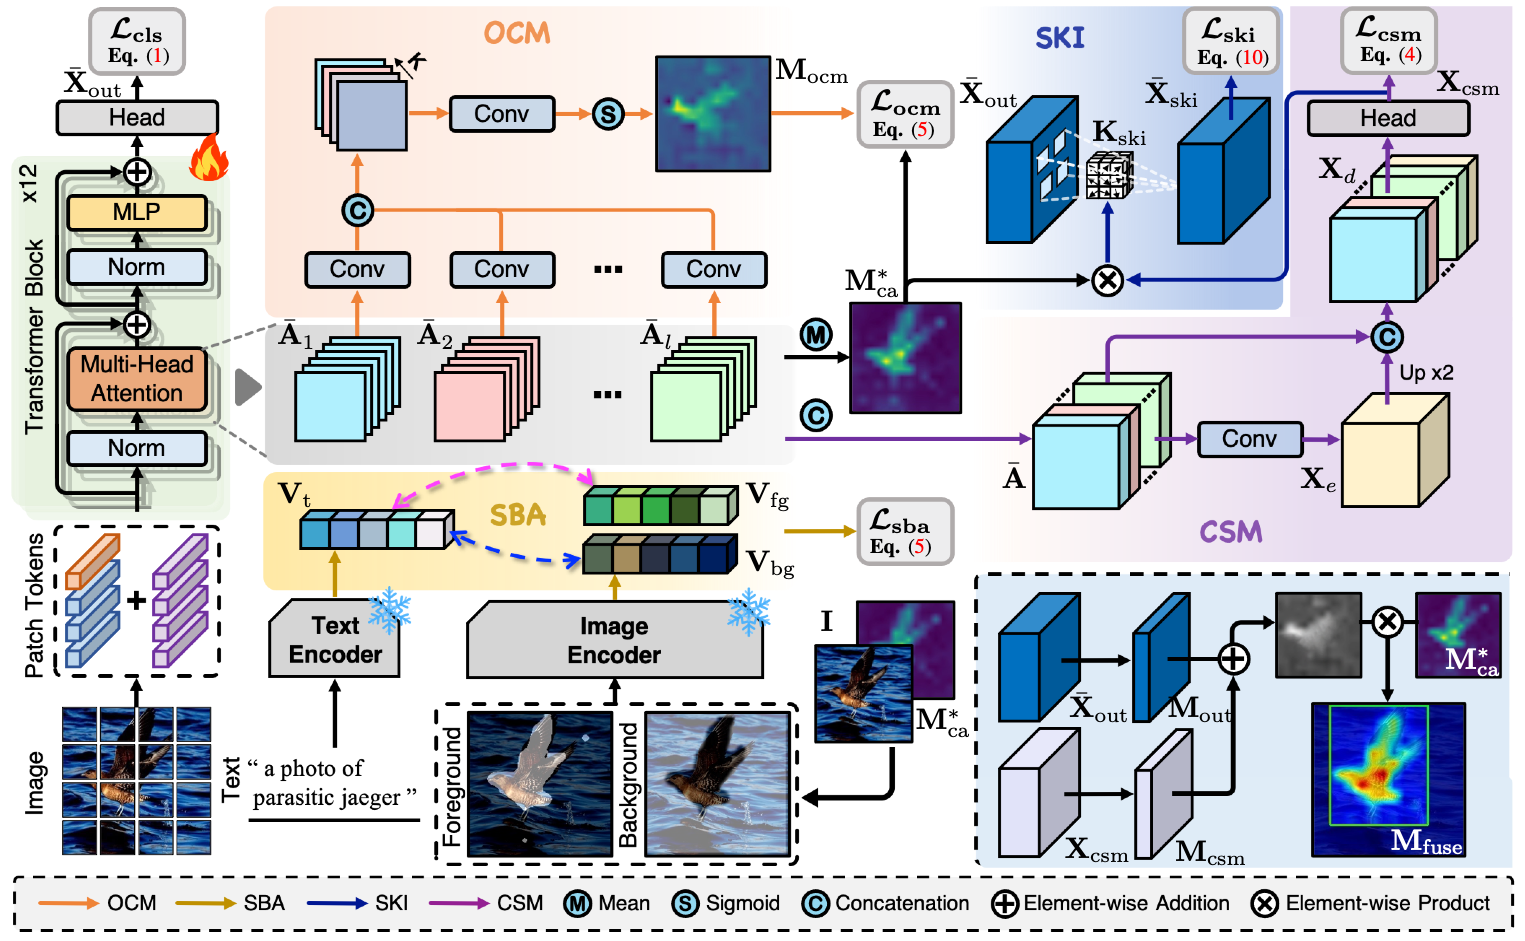
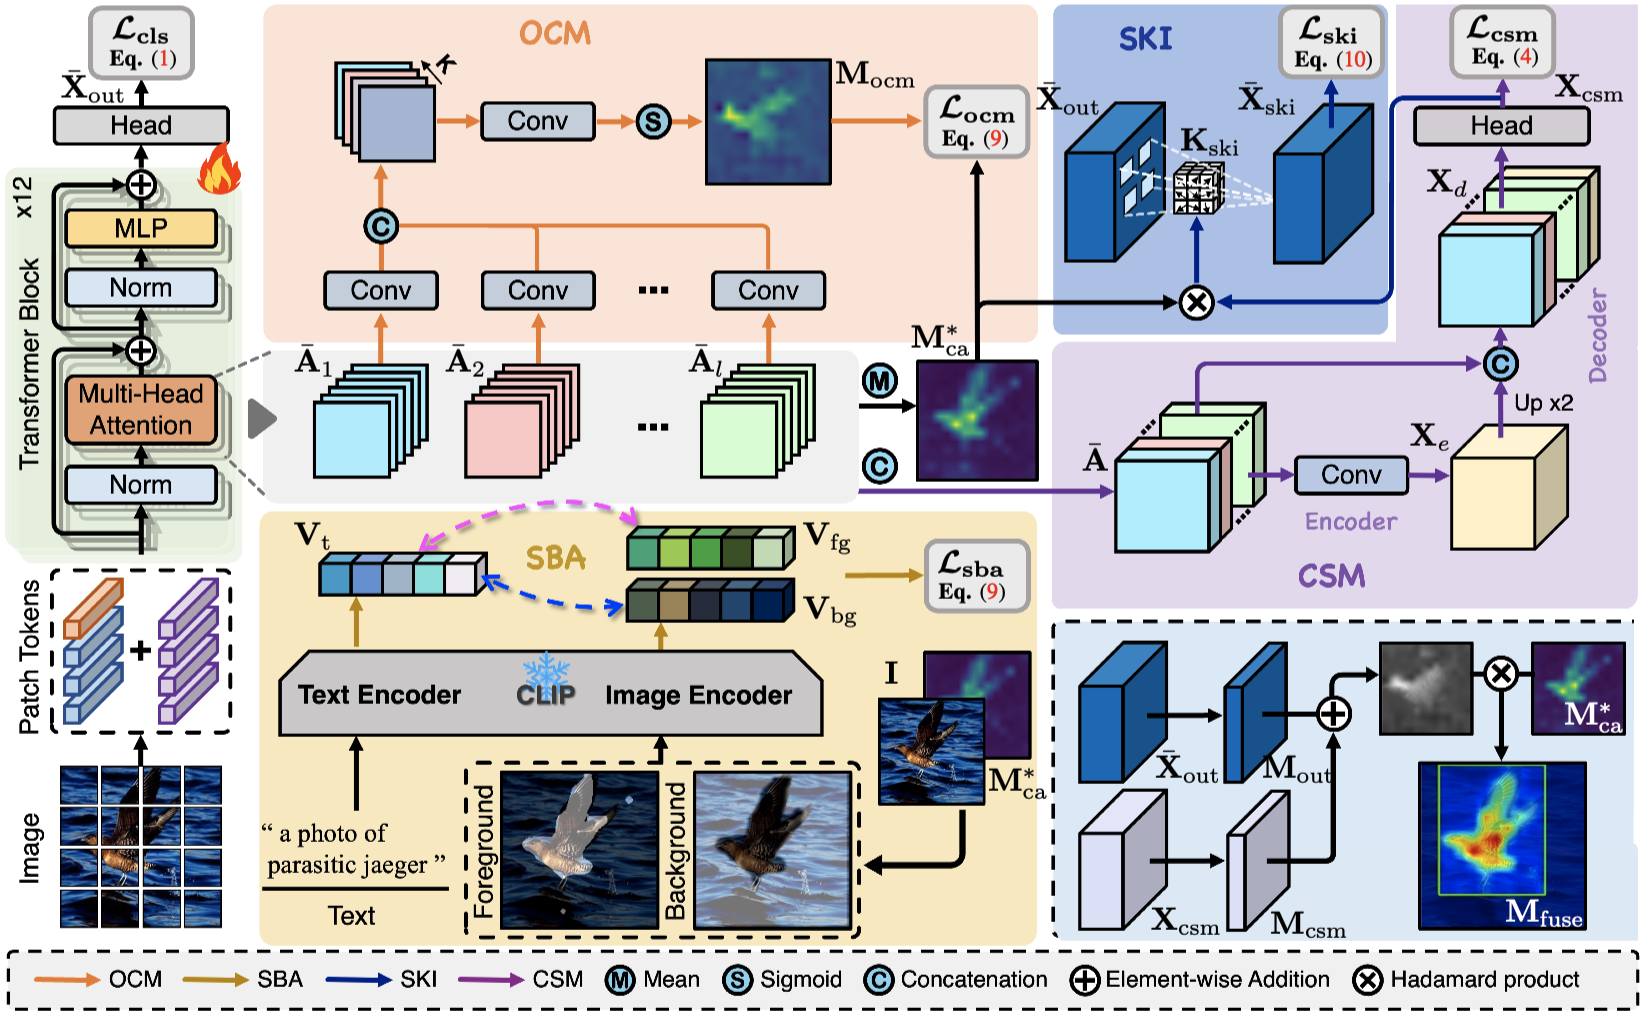
Update CDTR

diff --git a/models.py b/models.py
@@ -17,17 +17,15 @@ import sba_util
 import att_CNN
 
 __all__ = [
-    "deit_small_patch16_224_SDTR_cub",
-    "deit_small_patch16_224_SDTR_imnet",
+    "deit_small_patch16_224_CDTR_cub",
+    "deit_small_patch16_224_CDTR_imnet",
 ]
 
 
-class SDTR_cub(VisionTransformer):
+class CDTR_cub(VisionTransformer):
     def __init__(self, *args, **kwargs):
         super().__init__(*args, **kwargs)
-        self.head = nn.Conv2d(
-            self.embed_dim, self.num_classes, kernel_size=3, stride=1, padding=1
-        )
+        self.head = nn.Conv2d(self.embed_dim, self.num_classes, kernel_size=3, stride=1, padding=1)
 
         self.avgpool = nn.AdaptiveAvgPool2d(1)
         self.att_layer = att_CNN.cnn(
@@ -35,9 +33,7 @@ class SDTR_cub(VisionTransformer):
             self.num_classes,
             c_base=8,
         )
-        self.att_cls = nn.Conv2d(
-            self.num_classes, self.num_classes, kernel_size=1, padding=0, bias=False
-        )
+        self.att_cls = nn.Conv2d(self.num_classes, self.num_classes, kernel_size=1, padding=0, bias=False)
 
         self.dnc_att_layer = sba_util.sba_module(
             in_channels=self.num_classes,
@@ -107,9 +103,7 @@ class SDTR_cub(VisionTransformer):
         B = x.shape[0]
         x = self.patch_embed(x)
 
-        cls_tokens = self.cls_token.expand(
-            B, -1, -1
-        )  # stole cls_tokens impl from Phil Wang, thanks
+        cls_tokens = self.cls_token.expand(B, -1, -1)  # stole cls_tokens impl from Phil Wang, thanks
         x = torch.cat((cls_tokens, x), dim=1)
         x = x + self.pos_embed
         x = self.pos_drop(x)
@@ -131,7 +125,7 @@ class SDTR_cub(VisionTransformer):
         self.attn_map = self.attn_map.sum(1)[:, 0, 1:].reshape([-1, 14, 14])
 
         n, p, c = x_patch.shape
-        x_patch = torch.reshape(x_patch, [n, int(p ** 0.5), int(p ** 0.5), c])
+        x_patch = torch.reshape(x_patch, [n, int(p**0.5), int(p**0.5), c])
         x_patch = x_patch.permute([0, 3, 1, 2])
         x_patch = x_patch.contiguous()
         x_patch = self.head(x_patch)
@@ -142,7 +136,7 @@ class SDTR_cub(VisionTransformer):
         attn_weights_c_merge = rearrange(
             attn_weights_c[..., 0, 1:],
             "h b m (hi wi) -> b (h m) hi wi",
-            hi=int(p ** 0.5),
+            hi=int(p**0.5),
         )  # [128 72 14 14]
         attn_out1 = self.att_layer(attn_weights_c_merge)
         attn_out2 = self.att_cls(attn_out1)
@@ -151,7 +145,7 @@ class SDTR_cub(VisionTransformer):
         attn_weights_c_head = rearrange(
             attn_weights_c[..., 0, 1:],
             "h b m (hi wi) ->h b m hi wi",
-            hi=int(p ** 0.5),
+            hi=int(p**0.5),
         )  # [12 128 6 14 14]
         x_block0 = self.block0(attn_weights_c_head[0])
         x_block1 = self.block1(attn_weights_c_head[1])
@@ -194,13 +188,9 @@ class SDTR_cub(VisionTransformer):
                 n, c, h, w = feature_map.shape
                 cams = attn_weights.sum(1)[:, 0, 1:].reshape([n, h, w]).unsqueeze(1)
                 cams_at = cams
-                cams = cams * (
-                    feature_map + attn_out2.detach().clone()
-                )  # B * C * 14 * 14
-                cams = cams[torch.arange(label.shape[0]), label.long(), ...].unsqueeze(
-                    1
-                )
-                
+                cams = cams * (feature_map + attn_out2.detach().clone())  # B * C * 14 * 14
+                cams = cams[torch.arange(label.shape[0]), label.long(), ...].unsqueeze(1)
+
                 self.dnc_logits = self.dnc_att_layer(
                     x=attn_out2,
                     m_out_feat=x_patch,
@@ -237,9 +227,7 @@ class SDTR_cub(VisionTransformer):
 
         attn_map_flatt = self.attn_map.flatten(1)
         atn_v, _ = attn_map_flatt.sort()  # small to large
-        atn_min = atn_v[:, int(attn_map_flatt.shape[1] * 0.25)].view( # sota
-            attn_map_flatt.shape[0], 1, 1
-        )
+        atn_min = atn_v[:, int(attn_map_flatt.shape[1] * 0.25)].view(attn_map_flatt.shape[0], 1, 1)  # sota
 
         self.attn_map = torch.where(
             self.attn_map > torch.ones_like(self.attn_map) * atn_min,
@@ -250,33 +238,23 @@ class SDTR_cub(VisionTransformer):
 
         map_loss = self.loss_mse(self.pre_map, pre_map_label)
 
-        loss, params = self.AutomaticWeightedLoss(
-            loss_x, loss_att, loss_area, map_loss, loss_dnc
-        )
+        loss, params = self.AutomaticWeightedLoss(loss_x, loss_att, loss_area, map_loss, loss_dnc)
         return (
-                loss,
-                params,
-                [loss_x, loss_att, loss_area, map_loss, loss_clip, loss_dnc],
-            )
+            loss,
+            params,
+            [loss_x, loss_att, loss_area, map_loss, loss_clip, loss_dnc],
+        )
 
 
-
-
-class SDTR_imnet(VisionTransformer):
+class CDTR_imnet(VisionTransformer):
     def __init__(self, *args, **kwargs):
         super().__init__(*args, **kwargs)
-        self.head = nn.Conv2d(
-            self.embed_dim, self.num_classes, kernel_size=3, stride=1, padding=1
-        )
+        self.head = nn.Conv2d(self.embed_dim, self.num_classes, kernel_size=3, stride=1, padding=1)
 
         self.avgpool = nn.AdaptiveAvgPool2d(1)
 
-        self.att_layer = att_CNN.cnn(
-            72, self.num_classes, c_base=256
-        )
-        self.att_cls = nn.Conv2d(
-            self.num_classes, self.num_classes, kernel_size=1, padding=0, bias=False
-        )
+        self.att_layer = att_CNN.cnn(72, self.num_classes, c_base=256)
+        self.att_cls = nn.Conv2d(self.num_classes, self.num_classes, kernel_size=1, padding=0, bias=False)
 
         self.dnc_att_layer = sba_util.sba_module(
             in_channels=self.num_classes,
@@ -350,9 +328,7 @@ class SDTR_imnet(VisionTransformer):
         B = x.shape[0]
         x = self.patch_embed(x)
 
-        cls_tokens = self.cls_token.expand(
-            B, -1, -1
-        )  # stole cls_tokens impl from Phil Wang, thanks
+        cls_tokens = self.cls_token.expand(B, -1, -1)  # stole cls_tokens impl from Phil Wang, thanks
         x = torch.cat((cls_tokens, x), dim=1)
         x = x + self.pos_embed
         x = self.pos_drop(x)
@@ -374,7 +350,7 @@ class SDTR_imnet(VisionTransformer):
         self.attn_map = self.attn_map.sum(1)[:, 0, 1:].reshape([-1, 14, 14])
 
         n, p, c = x_patch.shape
-        x_patch = torch.reshape(x_patch, [n, int(p ** 0.5), int(p ** 0.5), c])
+        x_patch = torch.reshape(x_patch, [n, int(p**0.5), int(p**0.5), c])
         x_patch = x_patch.permute([0, 3, 1, 2])
         x_patch = x_patch.contiguous()
         x_patch = self.head(x_patch)
@@ -385,17 +361,16 @@ class SDTR_imnet(VisionTransformer):
         attn_weights_c_merge = rearrange(
             attn_weights_c[..., 0, 1:],
             "h b m (hi wi) -> b (h m) hi wi",
-            hi=int(p ** 0.5),
+            hi=int(p**0.5),
         )  # [128 72 14 14]
         attn_out1 = self.att_layer(attn_weights_c_merge)
         attn_out2 = self.att_cls(attn_out1)
         attn_logits = self.avgpool(attn_out2).squeeze(3).squeeze(2)
 
-
         attn_weights_c_head = rearrange(
             attn_weights_c[..., 0, 1:],
             "h b m (hi wi) ->h b m hi wi",
-            hi=int(p ** 0.5),
+            hi=int(p**0.5),
         )  # [12 128 6 14 14]
         x_block0 = self.block0(attn_weights_c_head[0])
         x_block1 = self.block1(attn_weights_c_head[1])
@@ -440,9 +415,7 @@ class SDTR_imnet(VisionTransformer):
                 n, c, h, w = feature_map.shape
                 cams = attn_weights.sum(1)[:, 0, 1:].reshape([n, h, w]).unsqueeze(1)
                 cams_at = cams
-                cams = cams * (
-                    feature_map + attn_out2.detach().clone()
-                )  # B * C * 14 * 14
+                cams = cams * (feature_map + attn_out2.detach().clone())  # B * C * 14 * 14
                 cams = cams[torch.arange(label.shape[0]), label.long(), ...]
                 cams = self.normalize_feat(cams).unsqueeze(1)
 
@@ -465,9 +438,7 @@ class SDTR_imnet(VisionTransformer):
             feature_map = x_patch.detach().clone()  # B * C * 14 * 14
             n, c, h, w = feature_map.shape
             cams = attn_weights.sum(1)[:, 0, 1:].reshape([n, h, w]).unsqueeze(1)
-            cams = (
-                cams * (feature_map + attn_out2.detach().clone()) / 2.0
-            )  # B * C * 14 * 14
+            cams = cams * (feature_map + attn_out2.detach().clone()) / 2.0  # B * C * 14 * 14
 
             attn_weights_all = rearrange(
                 attn_weights_c_merge,
@@ -495,9 +466,7 @@ class SDTR_imnet(VisionTransformer):
 
         attn_map_flatt = self.attn_map.flatten(1)
         atn_v, _ = attn_map_flatt.sort()  # small to large
-        atn_min = atn_v[:, int(attn_map_flatt.shape[1] * 0.1)].view( # sota
-            attn_map_flatt.shape[0], 1, 1
-        )
+        atn_min = atn_v[:, int(attn_map_flatt.shape[1] * 0.1)].view(attn_map_flatt.shape[0], 1, 1)  # sota
 
         self.attn_map = torch.where(
             self.attn_map > torch.ones_like(self.attn_map) * atn_min,
@@ -510,15 +479,14 @@ class SDTR_imnet(VisionTransformer):
         # * self.pre_map  self.attn_map
         map_loss = self.loss_mse(self.pre_map, pre_map_label)
 
-        loss, params_loss = self.AutomaticWeightedLoss(
-            loss_x, loss_att, loss_area, map_loss, loss_dnc
-        )
+        loss, params_loss = self.AutomaticWeightedLoss(loss_x, loss_att, loss_area, map_loss, loss_dnc)
 
         return (
             loss,
             params_loss,
             [loss_x, loss_att, loss_area, map_loss, loss_clip, loss_dnc],
         )
+
 
 class AutomaticWeightedLoss(nn.Module):
     """automatically weighted multi-task loss
@@ -540,15 +508,13 @@ class AutomaticWeightedLoss(nn.Module):
     def forward(self, *x):
         loss_sum = 0
         for i, loss in enumerate(x):
-            loss_sum += 0.5 / (self.params[i] ** 2) * loss + torch.log(
-                1 + self.params[i] ** 2
-            )
+            loss_sum += 0.5 / (self.params[i] ** 2) * loss + torch.log(1 + self.params[i] ** 2)
         return loss_sum, self.params
 
 
 @register_model
-def deit_small_patch16_224_SDTR_cub(pretrained=False, **kwargs):
-    model = SDTR_cub(
+def deit_small_patch16_224_CDTR_cub(pretrained=False, **kwargs):
+    model = CDTR_cub(
         patch_size=16,
         embed_dim=384,
         depth=12,
@@ -563,8 +529,8 @@ def deit_small_patch16_224_SDTR_cub(pretrained=False, **kwargs):
 
 
 @register_model
-def deit_small_patch16_224_SDTR_imnet(pretrained=False, **kwargs):
-    model = SDTR_imnet(
+def deit_small_patch16_224_CDTR_imnet(pretrained=False, **kwargs):
+    model = CDTR_imnet(
         patch_size=16,
         embed_dim=384,
         depth=12,

diff --git a/README.md b/README.md
@@ -1,8 +1,8 @@
-# Semantic-Driven Transformer for Weakly Supervised Object Localization
+# CLIP-Driven Transformer for Weakly Supervised Object Localization
 
-PyTorch implementation of ''Semantic-Driven Transformer for Weakly Supervised Object Localization''. 
+PyTorch implementation of ''CLIP-Driven Transformer for Weakly Supervised Object Localization''. 
 
-''Semantic-Driven Transformer for Weakly Supervised Object Localization'' is built upon our conference version ([ICCV 2023](https://openaccess.thecvf.com/content/ICCV2023/papers/Chen_Category-aware_Allocation_Transformer_for_Weakly_Supervised_Object_Localization_ICCV_2023_paper.pdf))
+''CLIP-Driven Transformer for Weakly Supervised Object Localization'' is built upon our conference version ([ICCV 2023](https://openaccess.thecvf.com/content/ICCV2023/papers/Chen_Category-aware_Allocation_Transformer_for_Weakly_Supervised_Object_Localization_ICCV_2023_paper.pdf))
 
 ## 📋 Table of content
  1. [📎 Paper Link](#1)
@@ -26,7 +26,7 @@ PyTorch implementation of ''Semantic-Driven Transformer for Weakly Supervised Ob
     
     Institution: Xiamen University, Xiamen, China. Tencent Youtu Lab, Shanghai, China. CATL, China.
     
-* Semantic-Driven Transformer for Weakly Supervised Object Localization ([link]())
+* CLIP-Driven Transformer for Weakly Supervised Object Localization ([link]())
 
     Authors: Zhiwei Chen, Yunhang Shen, Liujuan Cao, Shengchuan Zhang, Rongrong Ji
     
@@ -34,7 +34,7 @@ PyTorch implementation of ''Semantic-Driven Transformer for Weakly Supervised Ob
 
 
 ## 💡 Abstract <a name="2"></a> 
-Weakly supervised object localization (WSOL) aims to localize objects based on only image-level labels as supervision. Although recent advancements incorporating transformers into WSOL have resulted in improvements, these methods frequently depend on category-agnostic attention maps, culminating in suboptimal object localization. This paper presents a novel Semantic-Driven TRansformer (SDTR), which learns category-aware representations for specific objects and generates corresponding category-aware attention maps for object localization. First, we introduce a Category-aware Stimulation Module (CSM) to induce learnable category biases in self-attention maps, providing auxiliary supervision to guide the learning of more effective transformer representations. Second, an Object Constraint Module (OCM) is proposed to refine the object regions for the category-aware attention maps in a self-supervised manner. Additionally, a Semantic Kernel Integrator (SKI) is introduced to generate a semantic kernel for self-attention maps, establishing a connection between CSM and OCM. Furthermore, a Semantic Boost Adapter (SBA) is designed, incorporating a Contrastive Language-Image Pre-training (CLIP) model for refined semantic guidance. Extensive experimental evaluations on benchmark datasets such as CUB-200-2011 and ILSVRC highlight the superior performance of our SDTR framework. The code and models for this study are accessible at https://github.com/zhiweichen0012/SDTR.
+Weakly supervised object localization (WSOL) aims to localize objects using only image-level labels as supervision. Despite recent advancements incorporating transformers into WSOL have resulted in improvements, these methods often rely on category-agnostic attention maps, leading to suboptimal object localization. This paper presents a novel CLIP-Driven TRansformer (CDTR) that learns category-aware representations for accurate object localization. Specifically, we initially propose a Category-aware Stimulation Module (CSM) that embeds learnable category biases into self-attention maps, enhancing the learning process with auxiliary supervision.  Additionally, an Object Constraint Module (OCM) is designed to refine object regions in a self-supervised manner, leveraging the discriminative potential of the self-attention maps provided by CSM. To create a synergistic connection between CSM and OCM, we further develop a Semantic Kernel Integrator (SKI), which generates a semantic kernel for self-attention maps. Meanwhile, we explore the CLIP model and design a Semantic Boost Adapter~(SBA) to enrich object representations by integrating semantic-specific image and text representations into self-attention maps. Extensive experimental evaluations on benchmark datasets, such as CUB-200-2011 and ILSVRC highlight the superior performance of our CDTR framework. The code and models for this study are available at https://github.com/zhiweichen0012/CDTR.
 
 ## 📖 Method <a name="3"></a> 
 
@@ -43,7 +43,7 @@ Weakly supervised object localization (WSOL) aims to localize objects based on o
     <em> 
     </em>
 </p>
-The architecture of the proposed Semantic-Driven TRansformer (SDTR).
+The architecture of the proposed CLIP-Driven TRansformer (CDTR).
 
 ## 📃 Requirements <a name="4"></a> 
   - PyTorch==1.10.1  
@@ -55,8 +55,8 @@ The architecture of the proposed Semantic-Driven TRansformer (SDTR).
 ### Start <a name="51"></a> 
 
 ```bash  
-git clone git@github.com:zhiweichen0012/SDTR.git
-cd SDTR
+git clone git@github.com:zhiweichen0012/CDTR.git
+cd CDTR
 ```
 
 ### Prepare Datasets <a name="52"></a> 
@@ -81,24 +81,24 @@ The directory structure is the standard layout for the torchvision [`datasets.Im
 ```
 
 ### Model Zoo <a name="53"></a> 
-We provide the trained SDTR models.
+We provide the trained CDTR models.
 | Name | Loc. Acc@1 | Loc. Acc@5 | URL |
 | --- | --- | --- | --- |
-| SDTR_CUB | 81.33     | 94.06     | [model](https://drive.google.com/drive/folders/144yLFl9gJxPp1uC4RThQIqCy3GIz5OsB?usp=sharing) |
-| SDTR_ILSVRC | 58.20 | 68.05 | [model](https://drive.google.com/drive/folders/144yLFl9gJxPp1uC4RThQIqCy3GIz5OsB?usp=sharing) |
+| CDTR_CUB | 81.33     | 94.06     | [model](https://drive.google.com/drive/folders/144yLFl9gJxPp1uC4RThQIqCy3GIz5OsB?usp=sharing) |
+| CDTR_ILSVRC | 58.20 | 68.05 | [model](https://drive.google.com/drive/folders/144yLFl9gJxPp1uC4RThQIqCy3GIz5OsB?usp=sharing) |
 
 ### Training <a name="54"></a> 
 
-To train SDTR on CUB with 4 GPUs run:
+To train CDTR on CUB with 4 GPUs run:
 
 ```bash
-bash scripts/train.sh deit_small_patch16_224_SDTR_cub CUB 110 /path/to/output_ckpt/CUB
+bash scripts/train.sh deit_small_patch16_224_CDTR_cub CUB 110 /path/to/output_ckpt/CUB
 ```
 
-To train SDTR on ILSVRC with 4 GPUs run:
+To train CDTR on ILSVRC with 4 GPUs run:
 
 ```bash
-bash scripts/train.sh deit_small_patch16_224_SDTR_imnet IMNET 14 /path/to/output_ckpt/IMNET
+bash scripts/train.sh deit_small_patch16_224_CDTR_imnet IMNET 14 /path/to/output_ckpt/IMNET
 ```
 
 NOTE: Please check the paths to the "torchrun" command, the dataset, and the pre-training weights in the ``` scripts/train.sh ```.
@@ -108,13 +108,13 @@ NOTE: Please check the paths to the "torchrun" command, the dataset, and the pre
 To test the CUB models, you can run:
 
 ```bash  
-bash scripts/test.sh deit_small_patch16_224_SDTR_cub CUB /path/to/SDTR_CUB_model
+bash scripts/test.sh deit_small_patch16_224_CDTR_cub CUB /path/to/CDTR_CUB_model
 ```
 
 To test the ILSVRC models, you can run:
 
 ```bash  
-bash scripts/test.sh deit_small_patch16_224_SDTR_imnet IMNET /path/to/SDTR_IMNET_model
+bash scripts/test.sh deit_small_patch16_224_CDTR_imnet IMNET /path/to/CDTR_IMNET_model
 ```
 
 NOTE: Please check the paths to the "python3" command and the dataset in the ``` scripts/test.sh ```.
